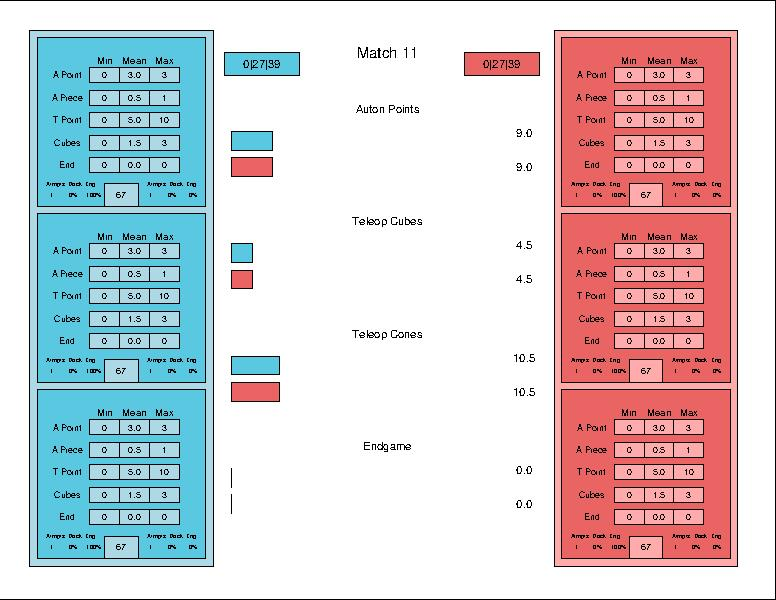
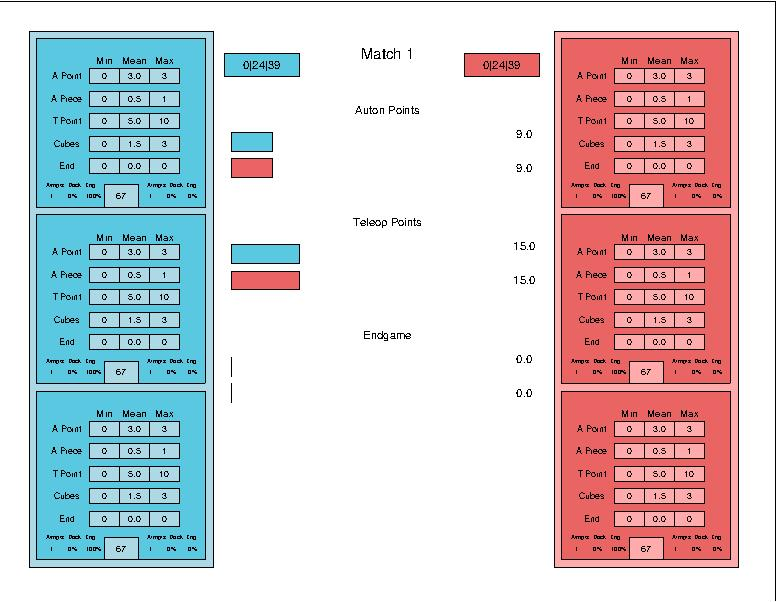
bars and total fixes

diff --git a/pitsheet_generator/pitSheet.py b/pitsheet_generator/pitSheet.py
@@ -145,35 +145,25 @@ class generatePitSheet(tk.Tk):
 
         self.canvas.create_text(517.5, 145, text='Auton Points', font=('Arial', '15'))
 
-        self.canvas.create_rectangle(310, 200 + 150, 310 + (teamDat["Teleop Cubes Blue"] * constants.barMult),
+        self.canvas.create_rectangle(310, 200 + 150, 310 + (teamDat["Teleop Points Blue"] * constants.barMult),
                                      175 + 150, fill=color)
-        self.canvas.create_text(700, 177 + 150, text=round(teamDat["Teleop Cubes Blue"], 2), font=('Arial', '15'))
+        self.canvas.create_text(700, 177 + 150, text=round(teamDat["Teleop Points Blue"], 2), font=('Arial', '15'))
 
-        self.canvas.create_rectangle(310, 210 + 150, 310 + (teamDat["Teleop Cubes Red"] * constants.barMult), 235 + 150,
+        self.canvas.create_rectangle(310, 210 + 150, 310 + (teamDat["Teleop Points Red"] * constants.barMult), 235 + 150,
                                      fill=color2)
-        self.canvas.create_text(700, 222.5 + 150, text=round(teamDat["Teleop Cubes Red"], 2), font=('Arial', '15'))
+        self.canvas.create_text(700, 222.5 + 150, text=round(teamDat["Teleop Points Red"], 2), font=('Arial', '15'))
 
-        self.canvas.create_text(517.5, 145 + 150, text='Teleop Cubes', font=('Arial', 15))
+        self.canvas.create_text(517.5, 145 + 150, text='Teleop Points', font=('Arial', 15))
 
-        self.canvas.create_rectangle(310, 200 + 300, 310 + (teamDat["Teleop Cones Blue"] * constants.barMult),
-                                     175 + 300, fill=color)
-        self.canvas.create_text(700, 177 + 300, text=round(teamDat["Teleop Cones Blue"], 2), font=('Arial', '15'))
-
-        self.canvas.create_rectangle(310, 210 + 300, 310 + (teamDat["Teleop Cones Red"] * constants.barMult), 235 + 300,
-                                     fill=color2)
-        self.canvas.create_text(700, 222.5 + 300, text=round(teamDat["Teleop Cones Red"], 2), font=('Arial', '15'))
-
-        self.canvas.create_text(517.5, 145 + 300, text='Teleop Cones', font=('Arial', '15'))
-
-        self.canvas.create_rectangle(310, 200 + 450, 310 + (teamDat["Endgame Blue"] * constants.barMult), 175 + 450,
+        self.canvas.create_rectangle(310, 200 + 300, 310 + (teamDat["Endgame Blue"] * constants.barMult), 175 + 300,
                                      fill=color)
-        self.canvas.create_text(700, 177 + 450, text=round(teamDat["Endgame Blue"], 2), font=('Arial', '15'))
+        self.canvas.create_text(700, 177 + 300, text=round(teamDat["Endgame Blue"], 2), font=('Arial', '15'))
 
-        self.canvas.create_rectangle(310, 210 + 450, 310 + (teamDat["Endgame Red"] * constants.barMult), 235 + 450,
+        self.canvas.create_rectangle(310, 210 + 300, 310 + (teamDat["Endgame Red"] * constants.barMult), 235 + 300,
                                      fill=color2)
-        self.canvas.create_text(700, 222.5 + 450, text=round(teamDat["Endgame Red"], 2), font=('Arial', '15'))
+        self.canvas.create_text(700, 222.5 + 300, text=round(teamDat["Endgame Red"], 2), font=('Arial', '15'))
 
-        self.canvas.create_text(517.5, 145 + 450, text='Endgame', font=('Arial', '15'))
+        self.canvas.create_text(517.5, 145 + 300, text='Endgame', font=('Arial', '15'))
 
     def teamcard(self, padding, segmentHeight, segmentWidth, segmentPadding, topPadding, offset, teamBoxOffsetx,
                  teamBoxOffsety,
@@ -220,7 +210,7 @@ class generatePitSheet(tk.Tk):
         try:
             a = 0
             for j in range(3):
-                for k in range(4):
+                for k in range(3):
                     a += round(makeDict(teams[j])[f'{constants.totalPrefixes[k]}{code}'])
 
             return a
@@ -245,14 +235,10 @@ class generatePitSheet(tk.Tk):
         # interface.interface().loadingBar(1)
         matchData = {
             "Auton Points Blue": self.B1['Auton Point Avg'] + self.B2['Auton Point Avg'] + self.B3['Auton Point Avg'],
-            "Teleop Cubes Blue": self.B1['Teleop Cubes Avg'] + self.B2['Teleop Cubes Avg'] + self.B3[
-                'Teleop Cubes Avg'],
-            "Teleop Cones Blue": self.B1['Teleop Cones Avg'] + self.B2['Teleop Cones Avg'] + self.B3[
-                'Teleop Cones Avg'],
+            "Teleop Points Blue": self.B1['Teleop Point Avg'] + self.B2['Teleop Point Avg'] + self.B3['Teleop Point Avg'],
             "Endgame Blue": self.B1['Endgame Point Avg'] + self.B2['Endgame Point Avg'] + self.B3['Endgame Point Avg'],
             "Auton Points Red": self.R1['Auton Point Avg'] + self.R2['Auton Point Avg'] + self.R3['Auton Point Avg'],
-            "Teleop Cubes Red": self.R1['Teleop Cubes Avg'] + self.R2['Teleop Cubes Avg'] + self.R3['Teleop Cubes Avg'],
-            "Teleop Cones Red": self.R1['Teleop Cones Avg'] + self.R2['Teleop Cones Avg'] + self.R3['Teleop Cones Avg'],
+            "Teleop Points Red": self.R1['Teleop Point Avg'] + self.R2['Teleop Point Avg'] + self.R3['Teleop Point Avg'],
             "Endgame Red": self.R1['Endgame Point Avg'] + self.R2['Endgame Point Avg'] + self.R3['Endgame Point Avg']}
         # interface.interface().loadingBar(10)
         self.canvas.create_text(517.5, 70, text=f'Match {self.matchNumber.upper()}', font=('Arial', '20'))

diff --git a/pitsheet_generator/requestHandeler.py b/pitsheet_generator/requestHandeler.py
@@ -14,7 +14,7 @@ class requests:
         self.isValid = False
 
         self.dir_list = os.listdir()
-        self.overide = False
+        self.overide = True
         self.gettingData = gettingData.gettingTBAData()
 
     def refresh(self, eventCode):
@@ -31,12 +31,16 @@ class requests:
         self.checkValid(jsonPath)
 
         if self.isValid:
-            con = sqlite3.connect(f"{eventCode}.db")
-            cursor = con.cursor()
-            res = cursor.execute(f"SELECT * FROM matches WHERE matchNum = {match}")
-            teams = res.fetchall()[0][1:]
-            red = [teams[0], teams[1], teams[2]]
-            blue = [teams[3], teams[4], teams[5]]
+            if not self.overide:
+                con = sqlite3.connect(f"{eventCode}.db")
+                cursor = con.cursor()
+                res = cursor.execute(f"SELECT * FROM matches WHERE matchNum = \"{match}\"")
+                teams = res.fetchall()[0][1:]
+                red = [teams[0], teams[1], teams[2]]
+                blue = [teams[3], teams[4], teams[5]]
+            else:
+                red = [67, 67, 67]
+                blue = [67, 67, 67]
             
             generatePitSheet(match, blue, red).generateSheet()
 

diff --git a/pitsheet_generator/constants.py b/pitsheet_generator/constants.py
@@ -38,7 +38,7 @@ class constants:
 
     prefixes = ['Auton Point ', 'Auton Piece ', 'Teleop Point ', 'Teleop Cubes ', 'Endgame Point ']
     # dictionary prefixes used in teamcard
-    totalPrefixes = ['Auton Point ', 'Teleop Cones ', 'Teleop Cubes ', 'Endgame Point ', 'Auton Point ']
+    totalPrefixes = ['Auton Point ', 'Teleop Point ', 'Endgame Point ']
 
     suffixes = ['Low', 'Avg', 'High']
 
